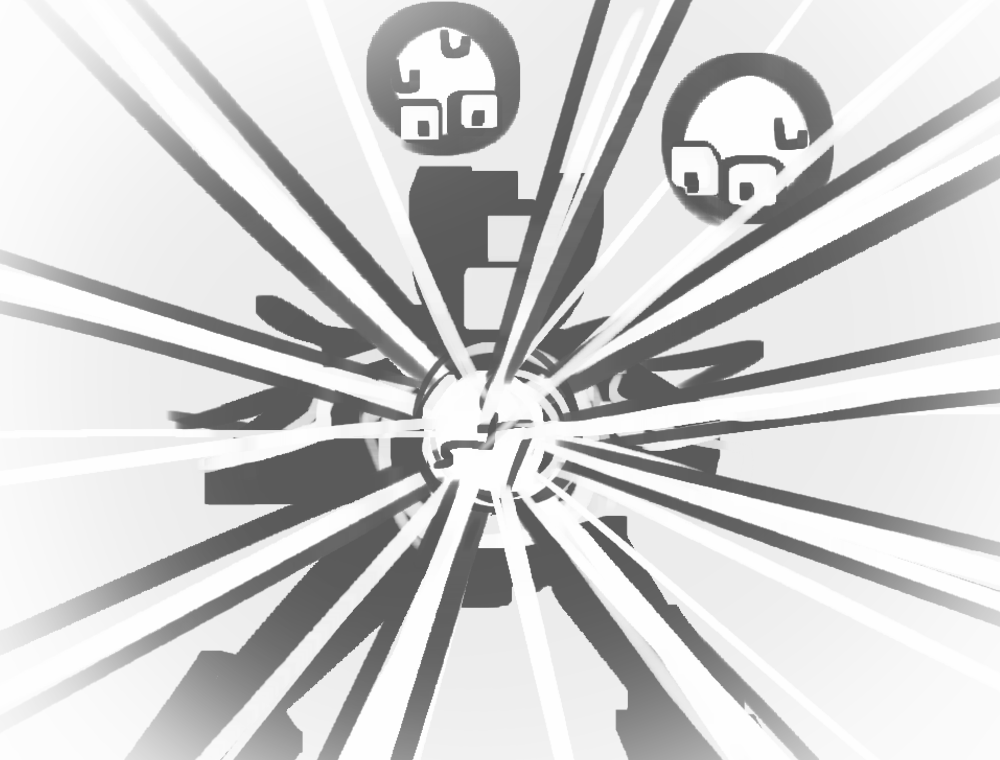
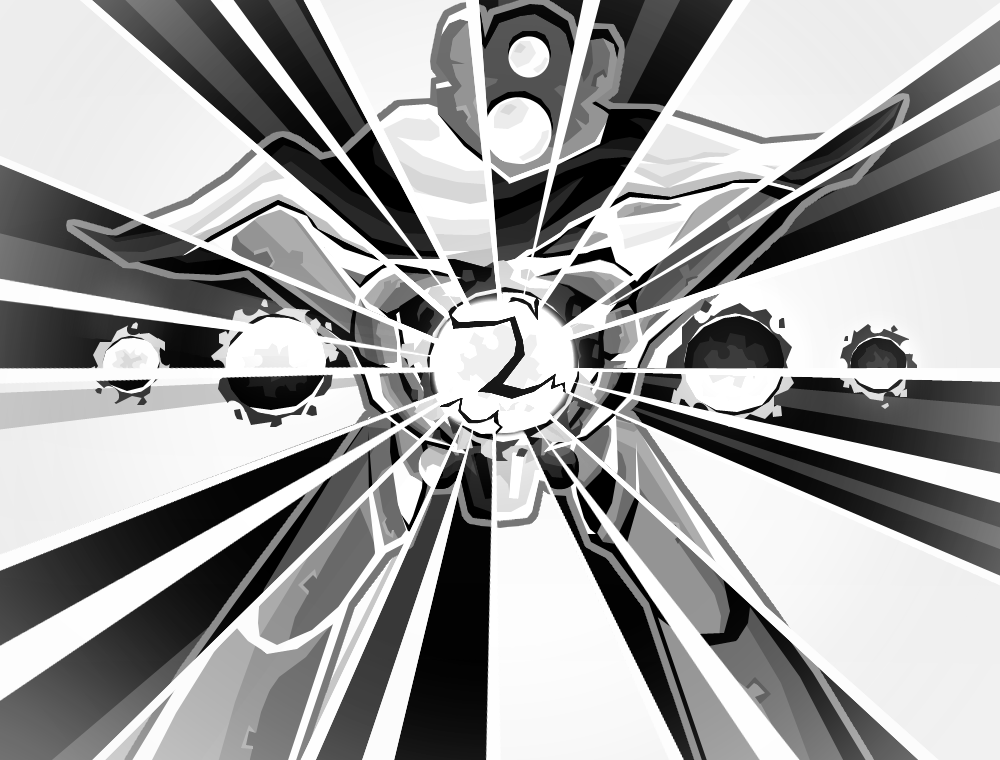
feat: added crystal focus and self destruct art

diff --git a/TheHeroExpansionCode/Cards/CrystalFocus.cs b/TheHeroExpansionCode/Cards/CrystalFocus.cs
@@ -1,0 +1,87 @@
+using BaseLib.Utils;
+using MegaCrit.Sts2.Core.Combat;
+using MegaCrit.Sts2.Core.Commands;
+using MegaCrit.Sts2.Core.Entities.Cards;
+using MegaCrit.Sts2.Core.Entities.Creatures;
+using MegaCrit.Sts2.Core.Entities.Players;
+using MegaCrit.Sts2.Core.GameActions.Multiplayer;
+using MegaCrit.Sts2.Core.Localization.DynamicVars;
+using MegaCrit.Sts2.Core.Models;
+using MegaCrit.Sts2.Core.Models.CardPools;
+using MegaCrit.Sts2.Core.Random;
+using MegaCrit.Sts2.Core.ValueProps;
+using TheHeroExpansion.TheHeroExpansionCode.Cards;
+
+namespace TheHeroExpansion.TheHeroExpansionCode.Cards;
+[Pool(typeof(ColorlessCardPool))]
+public class CrystalFocus() : TheHeroExpansionCard(1,
+    CardType.Skill, CardRarity.Uncommon,
+    TargetType.Self, nameof(CrystalFocus))
+{
+    public override IEnumerable<CardKeyword> CanonicalKeywords =>
+        [CardKeyword.Retain];
+
+    protected override IEnumerable<DynamicVar> CanonicalVars =>
+    [
+        new BlockVar(5M, ValueProp.Move),
+        new IntVar("RetainBlock", 3M),
+        new IntVar("BlockThreshold", 14M)
+    ];
+
+    protected override async Task OnPlay(
+        PlayerChoiceContext choiceContext,
+        CardPlay cardPlay)
+    {
+        CrystalFocus crystalFocus = this;
+        await CreatureCmd.GainBlock(crystalFocus.Owner.Creature, crystalFocus.DynamicVars.Block, cardPlay);
+    }
+    
+    public override async Task AfterBlockGained(
+        Creature creature,
+        decimal amount,
+        ValueProp props,
+        CardModel? cardSource)
+    {
+        CrystalFocus crystalFocus = this;
+        if (cardSource != crystalFocus || creature != crystalFocus.Owner.Creature)
+            return;
+        if (amount < crystalFocus.DynamicVars["BlockThreshold"].BaseValue)
+            return;
+
+        ICombatState combatState = crystalFocus.CombatState;
+        Rng rng = crystalFocus.Owner.RunState.Rng.CombatTargets;
+        Creature? randomEnemy = rng.NextItem(combatState.HittableEnemies);
+        if (randomEnemy == null)
+            return;
+
+        decimal blockDamage = crystalFocus.Owner.Creature.Block;
+
+        await CreatureCmd.Damage(
+            new ThrowingPlayerChoiceContext(),
+            randomEnemy,
+            blockDamage,
+            ValueProp.Unpowered,
+            crystalFocus.Owner.Creature);
+    }
+
+    public override Task AfterFlush(
+        PlayerChoiceContext choiceContext,
+        Player player,
+        IReadOnlyCollection<CardModel> flushedCards,
+        IReadOnlyCollection<CardModel> retainedCards)
+    {
+        CrystalFocus crystalFocus = this;
+        if (player != crystalFocus.Owner)
+            return Task.CompletedTask;
+        if (!retainedCards.Contains(crystalFocus))
+            return Task.CompletedTask;
+
+        crystalFocus.DynamicVars.Block.BaseValue += crystalFocus.DynamicVars["RetainBlock"].BaseValue;
+        return Task.CompletedTask;
+    }
+
+    protected override void OnUpgrade()
+    {
+        this.DynamicVars.Block.UpgradeValueBy(3M);
+    }
+}

diff --git a/TheHeroExpansionCode/TheHeroExpansionConfig.cs b/TheHeroExpansionCode/TheHeroExpansionConfig.cs
@@ -78,6 +78,7 @@ internal class TheHeroExpansionConfig : SimpleModConfig
     public static bool KaraCancel { get; set; } = true;
     public static bool JustLucky { get; set; } = true;
     public static bool PatriotShield { get; set; } = true;
+    public static bool CrystalFocus { get; set; } = true;
     public static bool MagicPen { get; set; } = true;
     public static bool ReinforcedBody { get; set; } = true;
     public static bool SuperForm { get; set; } = true;
